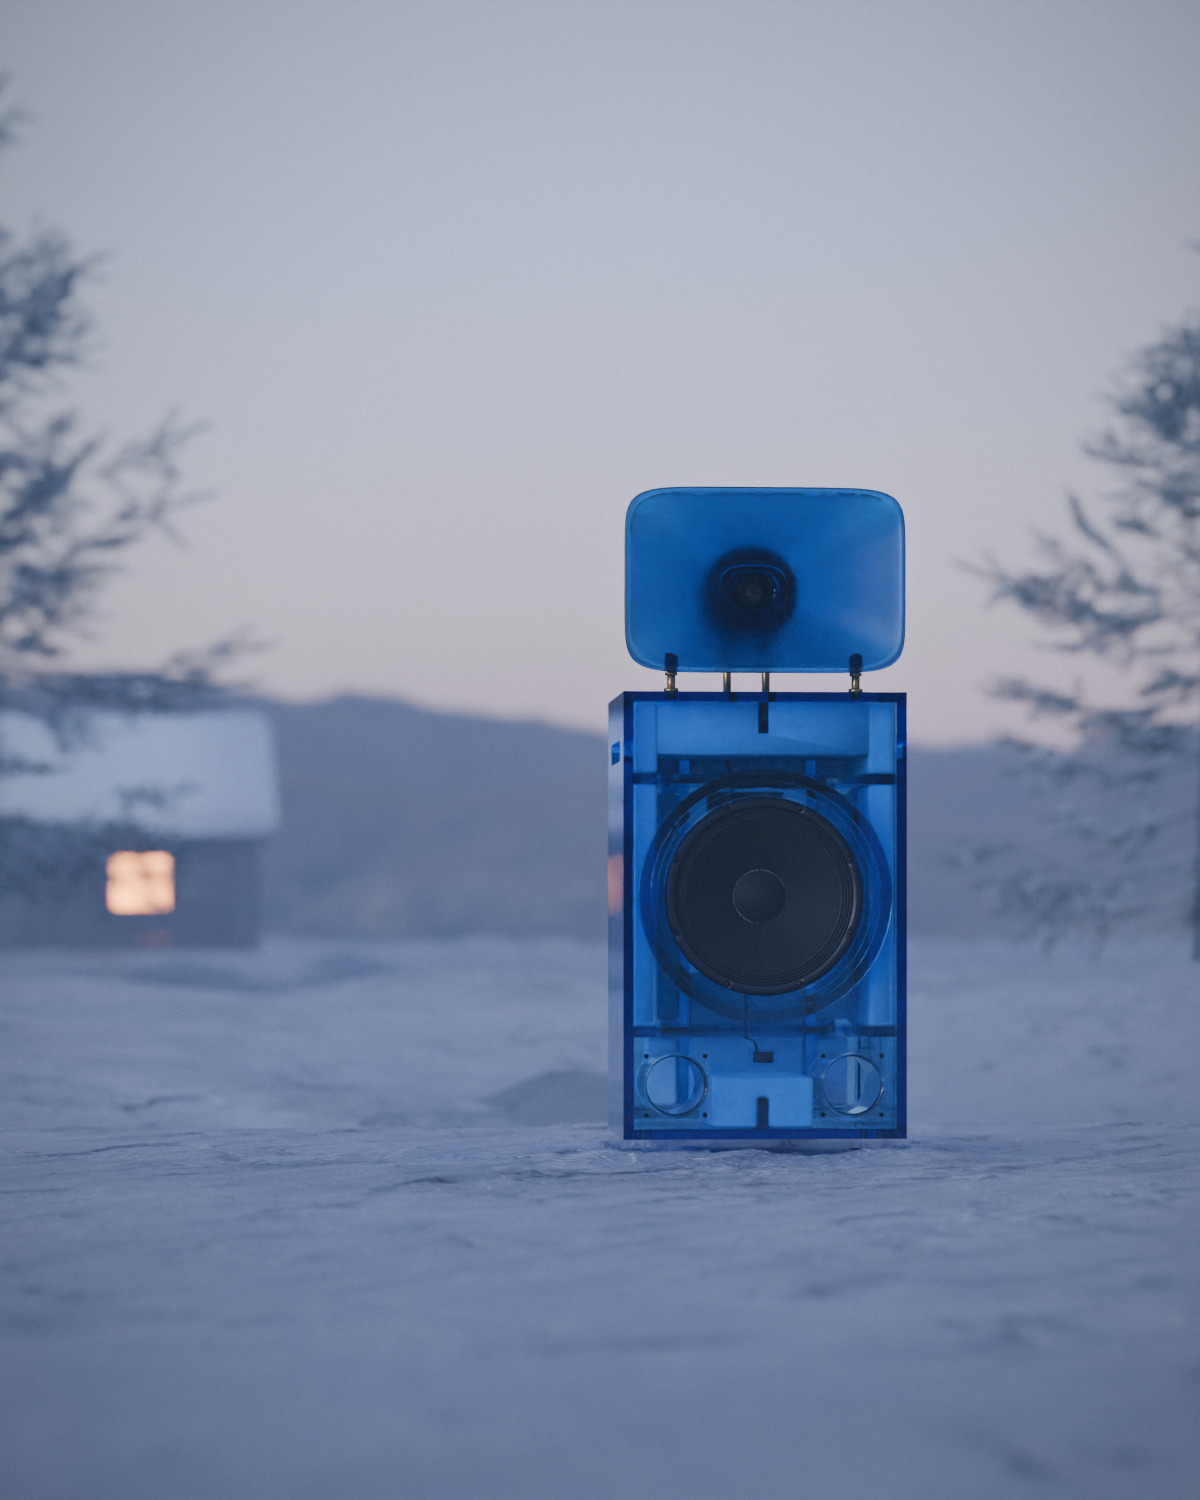
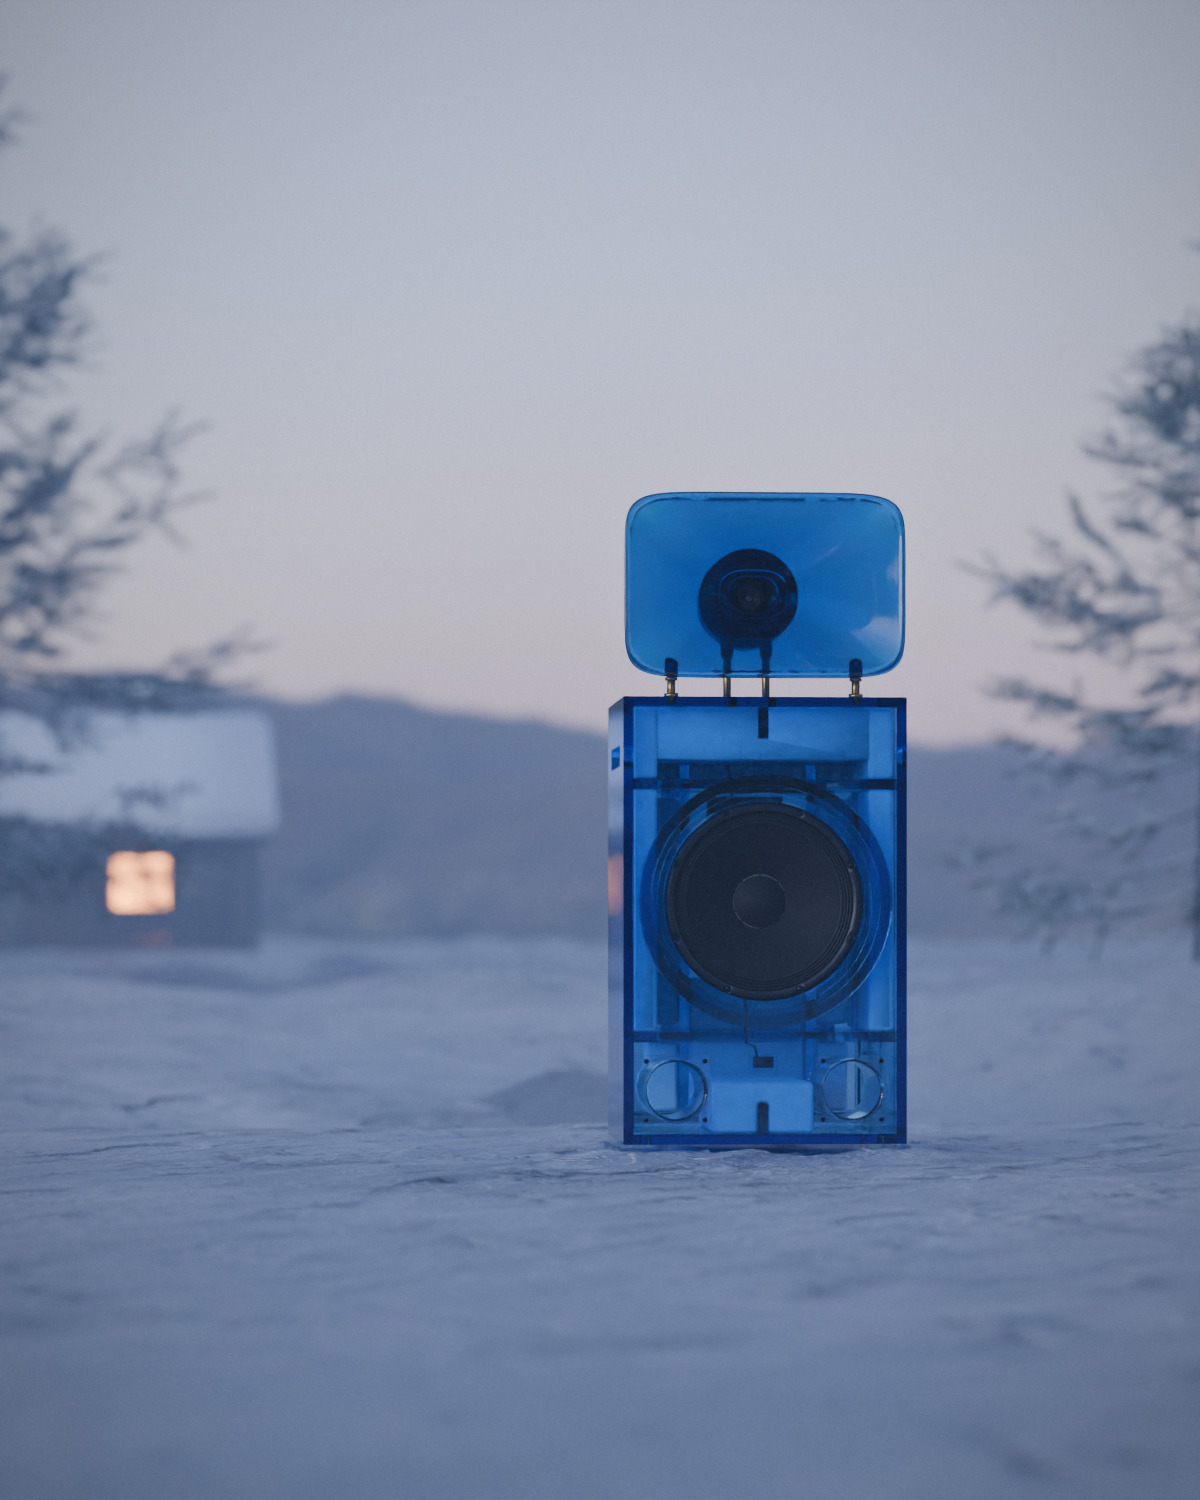
biomes: Ice with the polished horn, bedded 22 mm, the gate: all four PASS; batt crop
Claude-Session: https://claude.ai/code/session_01BAaPTnGwdpP4WKGVD3vbqx

Changed region(s): [[0.4933, 0.3067, 0.7708, 0.5827], [0.5242, 0.6133, 0.74, 0.7667]]

diff --git a/renders/2026-11-03/barkhorn/habitats/CHECK.md b/renders/2026-11-03/barkhorn/habitats/CHECK.md
@@ -22,5 +22,5 @@ Withdrawn:
 |---|---|---|---|---|---|
 | Ember (satin) | PASS | PASS | PASS | PASS | rotate_z -1, crack_r on the speaker at 2.0, camera at 0.8 m, 96 samples. At 390 px the ground under the base is 14.8, the base 13.6 and open ground 45.9. The peak along the foot is 60 (it was 181). The woofer, surround, braces, posts and ports show through the front and side, and the driver shows through the horn. The contact band is continuous. |
 | Haze (satin) | PASS | PASS | PASS | PASS | 96 samples. Dark violet acrylic: the woofer, ring, ports, braces and left frame show through, and no face is milky. The base sits in the grass with a continuous dark contact shadow. The horn is pale lavender and backlit by the low sun, lighter than the cabinet, the same satin-backlight look as Ember (held for the horn-finish call). The driver and its struts show through it sharply. |
-| Ice (satin) | PASS | PASS | PASS | PASS | 64 samples. Clear blue: the woofer, ring, posts, braces, ports and screws show through the front, and the cabin window shows through the side. The bottom batt is clearly visible between the ports with its notch for the lead (`ice-portrait-batt-crop.jpg`, 2x). A dark contact line sits under the bottom panel. The snow in front measures 120.7, against 121.1 and 120.3 to either side, so no glow. The horn is smooth, with a soft haze at the throat. |
 | Dust (polished) | PASS | PASS | PASS | PASS | Sand bounce 0.35, no tumbleweed, 64 samples. Amber-red acrylic: the woofer, ring, braces, ports, crossover box, its screws and the desert behind show through. The rail sits on the ripples: luma 81 under the front edge against 107 for open sand. The contact shadow is weak. The red patch is the tinted shadow. The horn is a smooth glassy shell, with the driver showing as a smooth bulb and no X. |
+| Ice (polished) | PASS | PASS | PASS | PASS | Bedded 22 mm, 64 samples. The woofer, ring, braces, ports and posts show through the front, and the cabin window shows through the side. The bottom batt is clearly in view (`ice-portrait-batt-crop.jpg`, 2x). A dark contact band: luma 108 under the base against 121-123 for open snow. No glow. The horn is a smooth glassy shell with the driver at its throat and no X. |
